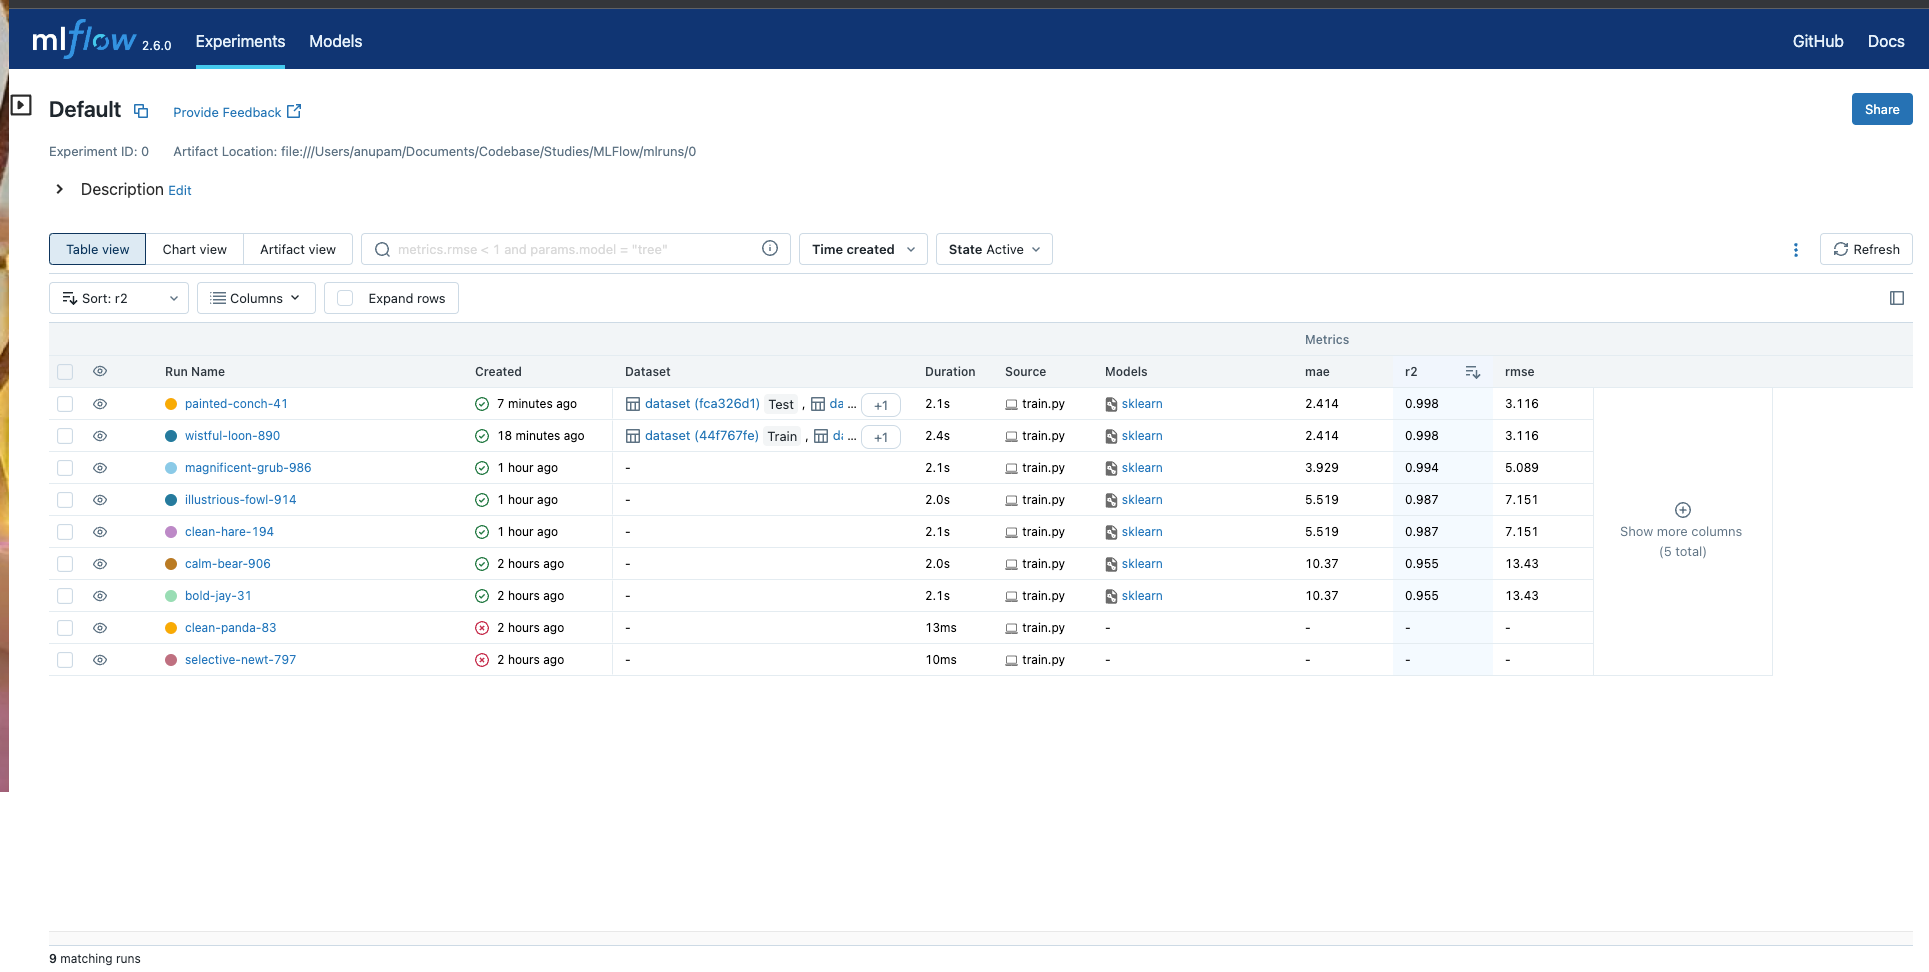
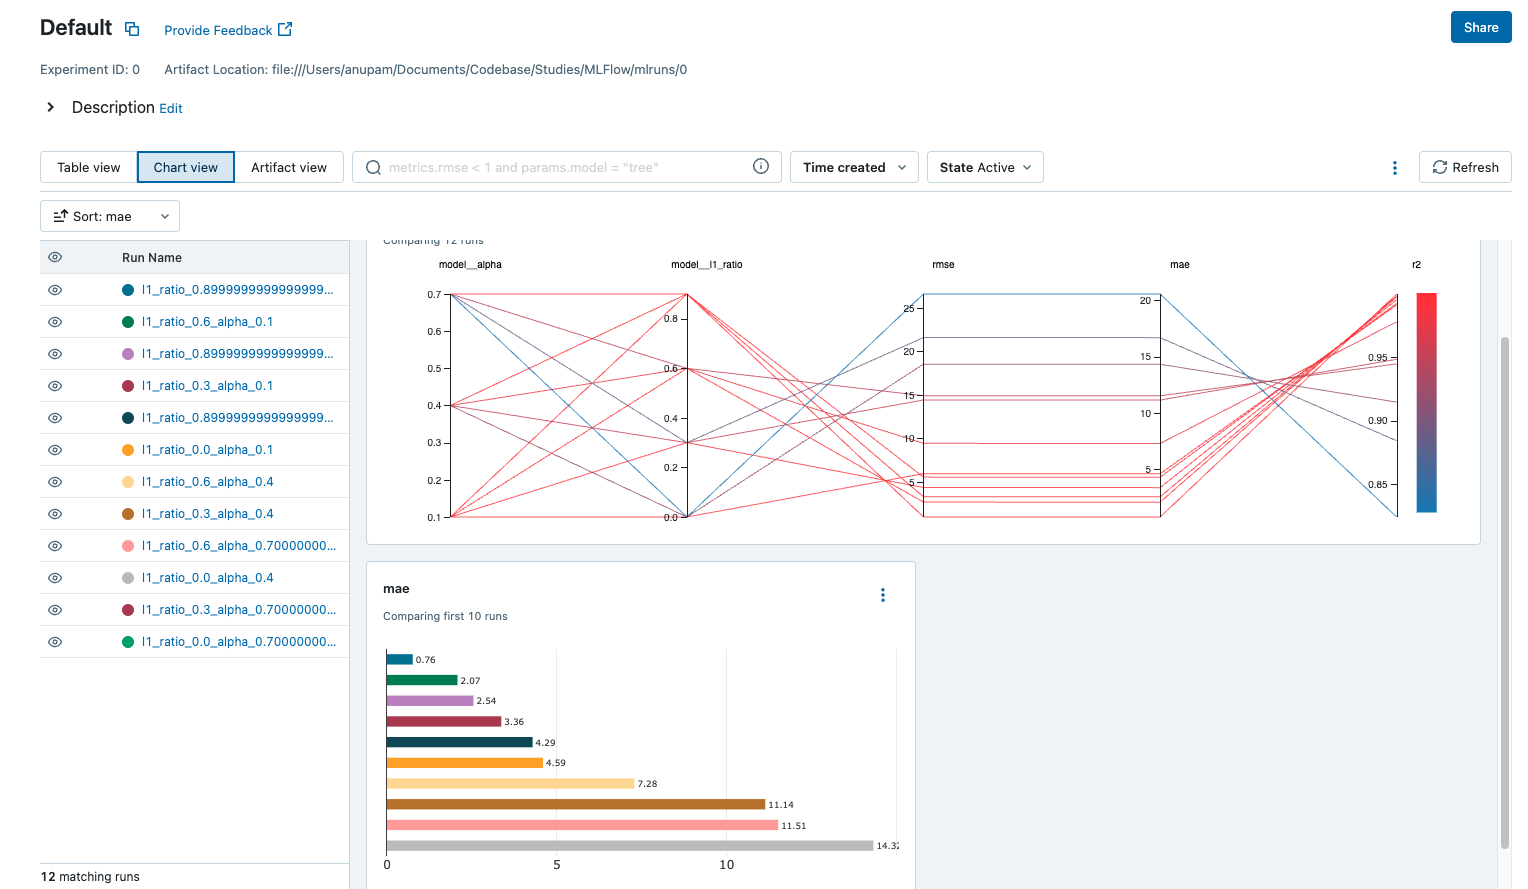
best model registration and serving latest model done

diff --git a/sklearn/train.py b/sklearn/train.py
@@ -47,24 +47,11 @@ def get_sklearn_model():
     """
     return ElasticNet(random_state=RANDOM_STATE), ['alpha','l1_ratio'], [0.5,0.5]    
 
-if __name__ == "__main__":
+def run_experiment(model_args, pipe, X_train, y_train, X_test, y_test):
 
-    data_pipe=get_data_pipe()
-    model_pipe,model_params,default_param_values=get_sklearn_model()
+    with mlflow.start_run(run_name=f"l1_ratio_{model_args['model__l1_ratio']}_alpha_{model_args['model__alpha']}") as run:
+        print(f"Running {run.info.run_id}")
 
-    X,y=read_data()
-    X_train, X_test,y_train,y_test = train_test_split(X,y,random_state=RANDOM_STATE)
-    trainset=np.c_[X_train,y_train]
-    testset=np.c_[X_test,y_test]
-
-    np.savetxt(fname="sklearn/data/trainset.csv",X=trainset, delimiter=',')
-    np.savetxt(fname="sklearn/data/testset.csv",X=trainset, delimiter=',')
-
-    model_args={'model__l1_ratio':0.01, 'model__alpha':0.05}
-
-    pipe = Pipeline([('data_pipe',data_pipe),('model',model_pipe)])
-
-    with mlflow.start_run():
         mlflow.log_input(mlflow.data.from_numpy(features=X_train,targets=y_train,source="sklearn/data/trainset.csv"), context='train')
         mlflow.log_input(mlflow.data.from_numpy(features=X_test,targets=y_test,source="sklearn/data/testset.csv"), context='test')
         mlflow.set_tag("release","training")
@@ -75,14 +62,12 @@ if __name__ == "__main__":
 
         (rmse, mae, r2) = eval_metrics(y_test, predicted_qualities)
 
-        print(f"  RMSE: {rmse}")
-        print(f"  MAE: {mae}")
-        print(f"  R2: {r2}")
-
         mlflow.log_params(model_args)
         mlflow.log_metric("rmse", rmse)
         mlflow.log_metric("r2", r2)
         mlflow.log_metric("mae", mae)
+        data_to_log = {"runID": [run.info.run_id],"rmse":[rmse],"mae":mae,"r2":[r2],"l1_ratio":[model_args['model__l1_ratio']],"alpha":[model_args['model__alpha']]}
+        mlflow.log_table(data=data_to_log, artifact_file="comparison_table.json")
 
         predictions = pipe.predict(X_train)
         signature = infer_signature(X_train, predictions)
@@ -96,3 +81,22 @@ if __name__ == "__main__":
             )
         else:
             mlflow.sklearn.log_model(pipe, "model", signature=signature)
+
+if __name__ == "__main__":
+    data_pipe=get_data_pipe()
+    model_pipe,model_params,default_param_values=get_sklearn_model()
+
+    X,y=read_data()
+    X_train, X_test,y_train,y_test = train_test_split(X,y,random_state=RANDOM_STATE)
+    trainset=np.c_[X_train,y_train]
+    testset=np.c_[X_test,y_test]
+
+    np.savetxt(fname="sklearn/data/trainset.csv",X=trainset, delimiter=',')
+    np.savetxt(fname="sklearn/data/testset.csv",X=trainset, delimiter=',')
+
+    pipe = Pipeline([('data_pipe',data_pipe),('model',model_pipe)])
+
+    for i in np.arange(0,1,0.3):
+        for j in np.arange(0.1,1,0.3):
+            model_args={'model__l1_ratio':i, 'model__alpha':j}
+            run_experiment(model_args, pipe, X_train, y_train, X_test, y_test)

diff --git a/sklearn/compare_models_and_register.py b/sklearn/compare_models_and_register.py
@@ -1,0 +1,20 @@
+import mlflow
+import json
+
+table=mlflow.load_table(artifact_file='comparison_table.json')
+table['overall_score'] = table['r2']-table['mae']-table['rmse']
+table.sort_values(['overall_score'], ascending=False, inplace=True)
+print(table.head())
+
+top_model={"runID":table.head(1)['runID'].values[0],
+           "alpha":table.head(1)['alpha'].values[0],
+           "l1_ratio":table.head(1)['l1_ratio'].values[0]}
+
+print(f"Top model from run {top_model['runID']} with alpha {top_model['alpha']} and l1_ratio {top_model['l1_ratio']}")
+
+with open("top_model.json","w") as f:
+    json.dump(top_model,f)
+
+result = mlflow.register_model(
+    f"runs:/{top_model['runID']}/model", "dummy_data_predictor",tags={"alpha":top_model['alpha'],'l1_ratio':top_model['l1_ratio']}
+)

diff --git a/sklearn/inference.py b/sklearn/inference.py
@@ -1,0 +1,22 @@
+import mlflow
+from data_generator import generate_live_data
+import mlflow.pyfunc
+import numpy as np
+
+model_name = "dummy_data_predictor"
+# stage = 
+
+model = mlflow.pyfunc.load_model(model_uri=f"models:/{model_name}/latest")
+
+def predict_pipe(X):
+    """
+    Add more logic before prediction if required
+    """
+    predictions = model.predict(X)
+    return predictions
+
+if __name__=="__main__":
+
+    X,y=generate_live_data(size=30)
+    preds=predict_pipe(X.astype(np.float32))
+    print(preds)

diff --git a/TODO.md b/TODO.md
@@ -1,8 +1,13 @@
+# Sklearn
 [X] Hyperparameter modification tracking via MLFlow projects
 [X] Datset logging
+[X] Comparison between different models and automatically obtaining the best model
+[ ] Hyperopt functionality?
 [ ] MLProject setup
-[ ] Model registration
-[ ] Serving the model
+[X] Model registration with tags
+[X] Serving the latest model from model registry
 [ ] Model performance assessment on different types of data
 [ ] Staging vs production
 [ ] Dockerization
+
+# Neural network
